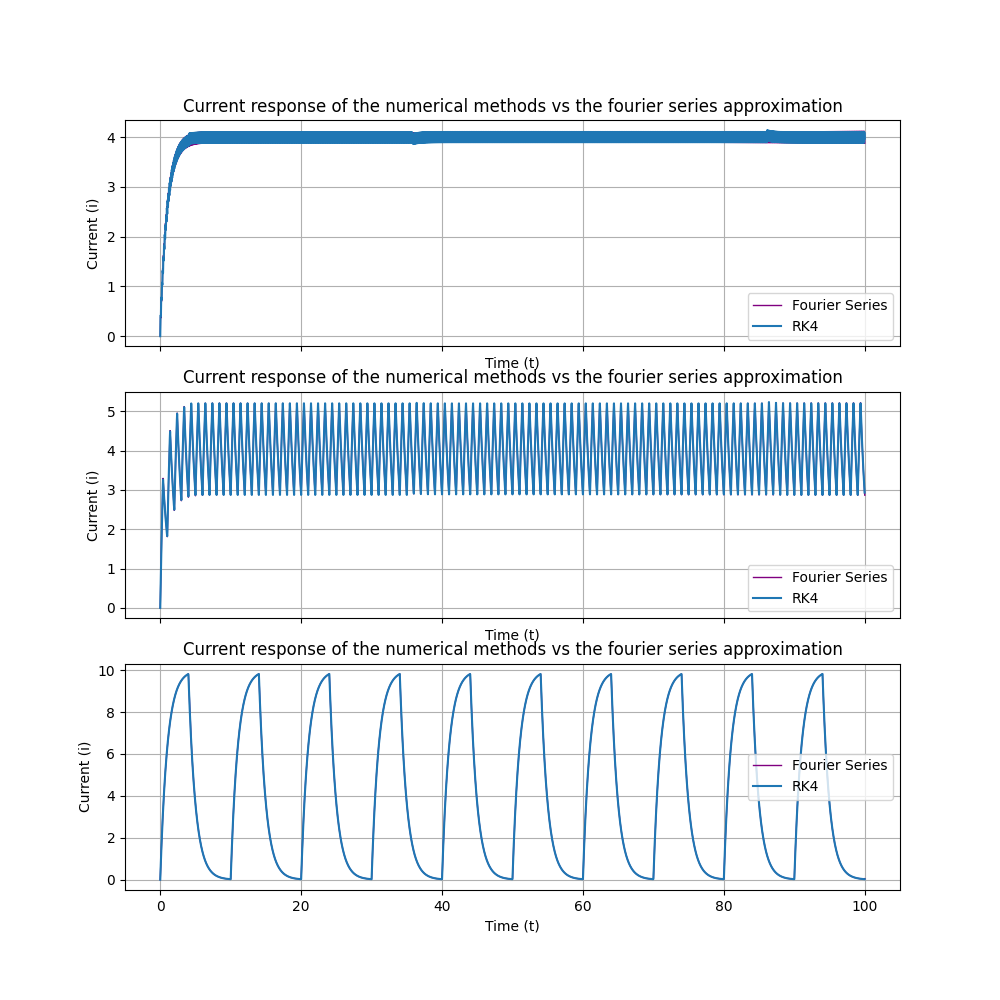
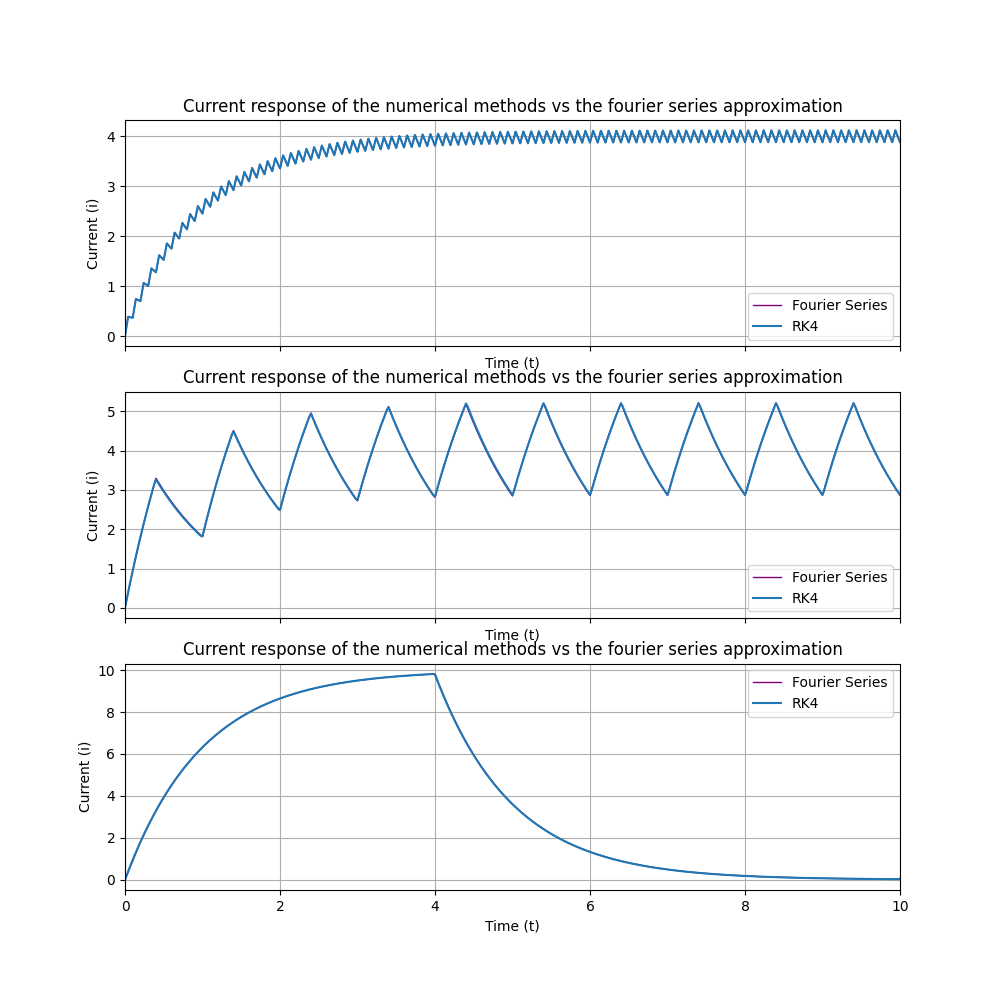
final final changes

diff --git a/comparison.py b/comparison.py
@@ -47,13 +47,14 @@ plt.show()
 
 
 #plotting the current response of the RL circuit through fourier series and RK4 method for different L/R values
-t = np.linspace(0, 100, 5000)
+t = np.linspace(0, 10, 5000)
 fig, axes = plt.subplots(3, 1, figsize=(10, 10), sharex=True)
 axes[0].plot(t, fs.compute_current(R, L, w0 * 100, t, alpha), color = "purple", linewidth = 1, label = "Fourier Series")
-axes[0].plot(nm.rl_rk4(R, L, alpha, amp, T/100, 1/50, 5000)[0][:], nm.rl_rk4(R, L, alpha, amp, T/100, 1/50, 5000)[1][:], label = "RK4")
+axes[0].plot(nm.rl_rk4(R, L, alpha, amp, T/100, 1/500, 5000)[0][:], nm.rl_rk4(R, L, alpha, amp, T/100, 1/500, 5000)[1][:], label = "RK4")
 axes[0].set_title("Current response of the numerical methods vs the fourier series approximation")
 axes[0].set_xlabel("Time (t)")
 axes[0].set_ylabel("Current (i)")
+axes[0].set_xlim(0, 10)
 axes[0].legend(loc = "best")
 axes[0].grid(True)
 axes[1].plot(t, fs.compute_current(R, L, w0 * 10, t, alpha), color = "purple", linewidth = 1, label = "Fourier Series")
